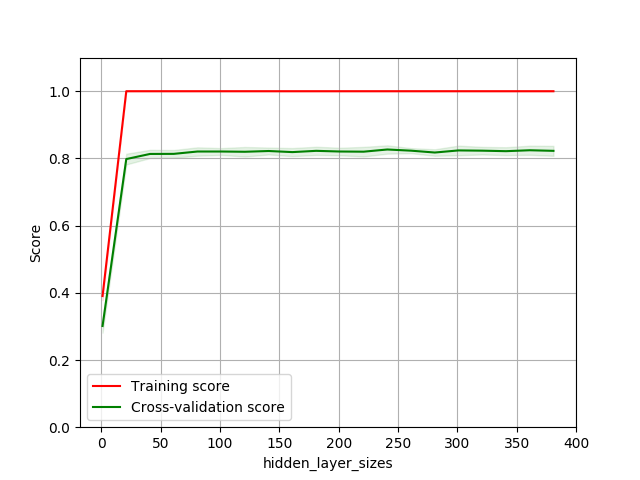
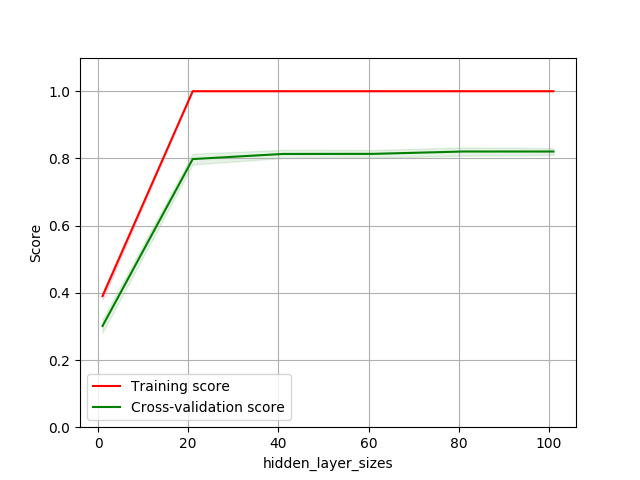
sdfds

diff --git a/HW_1/DT_HW1.py b/HW_1/DT_HW1.py
@@ -515,9 +515,9 @@ def svm_learning_curve_epoch_post(dataset_name, X_train, y_train, C=1.0, kernel=
                                                  n_jobs=1)
     end_time = time.time()
     difference = end_time - start_time
-    print "SVM epoch difference:", difference
+    print "SVM_learning_curve_epoch_post", difference
 
-    recording_and_plotting(dataset_name, name="SVM_learning_curve_epoch",
+    recording_and_plotting(dataset_name, name="SVM_learning_curve_epoch_post",
                            alter=param_range,
                            train=train_scores,
                            validation=test_scores, x_title="max_iter", y_title="Score")
@@ -527,7 +527,7 @@ def decision_tree_vld_curve_1(dataset_name, X_train, y_train, min_samples_leaf=2
     start_time = time.time()
     cv = ShuffleSplit(n_splits=10, test_size=0.2, random_state=0)
     # cv = 10
-    param_range = range(1, 200, 8)
+    param_range = range(1, 120, 5)
     train_scores, test_scores = validation_curve(clf, X_train, y_train,
                                                  param_name="min_samples_leaf",
                                                  param_range=param_range,
@@ -770,7 +770,7 @@ if __name__=="__main__":
     # decision_tree_vld_curve_2(set1_name, X_train, y_train)
     # boost_dt_vld_curve_1(set1_name, X_train, y_train)
     # boost_dt_vld_curve_2(set1_name, X_train, y_train)
-    # ann_vld_curve_1(set1_name, X_train, y_train)
+    ann_vld_curve_1(set1_name, X_train, y_train)
     # ann_vld_curve_2(set1_name, X_train, y_train)
     # knn_vld_curve_1(set1_name, X_train, y_train)
     # knn_vld_curve_2(set1_name, X_train, y_train)
@@ -817,7 +817,7 @@ if __name__=="__main__":
     # decision_tree_vld_curve_2(set2_name, X2_train, y2_train)
     # boost_dt_vld_curve_1(set2_name, X2_train, y2_train)
     # boost_dt_vld_curve_2(set2_name, X2_train, y2_train)
-    # ann_vld_curve_1(set2_name, X2_train, y2_train)
+    ann_vld_curve_1(set2_name, X2_train, y2_train)
     # ann_vld_curve_2(set2_name, X2_train, y2_train)
     # knn_vld_curve_1(set2_name, X2_train, y2_train)
     # knn_vld_curve_2(set2_name, X2_train, y2_train)
@@ -825,15 +825,15 @@ if __name__=="__main__":
     # svm_vld_curve_2(set2_name, X2_train, y2_train)
 
     # # post-parameter adjustment
-    decision_tree_learning_curve_size_post(set2_name, X2_train, y2_train, min_samples_leaf=33, max_depth=None)
-    boost_dt_learning_curve_size_post(set2_name, X2_train, y2_train, min_samples_leaf=113, n_estimators=40, learning_rate = 0.5125)
-    ann_learning_curve_size_post(set2_name, X2_train, y2_train, hidden_layer_sizes=(50, ), alpha=0.417)
-    knn_learning_curve_size_post(set2_name, X2_train, y2_train, n_neighbors=1, algorithm='auto')
-    svm_learning_curve_size_post(set2_name, X2_train, y2_train, C=50 , kernel='rbf', max_iter=-1)
-    #
-    boost_dt_learning_curve_epoch_post(set2_name, X2_train, y2_train, min_samples_leaf=113, n_estimators=40, learning_rate = 0.5125)
-    ann_learning_curve_epoch_post(set2_name, X2_train, y2_train, hidden_layer_sizes=(50, ), alpha=0.417)
-    svm_learning_curve_epoch_post(set2_name, X2_train, y2_train, C=50 , kernel='rbf', max_iter=-1)
+    # decision_tree_learning_curve_size_post(set2_name, X2_train, y2_train, min_samples_leaf=33, max_depth=None)
+    # boost_dt_learning_curve_size_post(set2_name, X2_train, y2_train, min_samples_leaf=113, n_estimators=40, learning_rate = 0.5125)
+    # ann_learning_curve_size_post(set2_name, X2_train, y2_train, hidden_layer_sizes=(50, ), alpha=0.417)
+    # knn_learning_curve_size_post(set2_name, X2_train, y2_train, n_neighbors=1, algorithm='auto')
+    # svm_learning_curve_size_post(set2_name, X2_train, y2_train, C=50 , kernel='rbf', max_iter=-1)
+    # #
+    # boost_dt_learning_curve_epoch_post(set2_name, X2_train, y2_train, min_samples_leaf=113, n_estimators=40, learning_rate = 0.5125)
+    # ann_learning_curve_epoch_post(set2_name, X2_train, y2_train, hidden_layer_sizes=(50, ), alpha=0.417)
+    # svm_learning_curve_epoch_post(set2_name, X2_train, y2_train, C=50 , kernel='rbf', max_iter=-1)
 
 
     '''load and standardize data set #2'''
